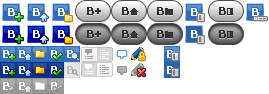
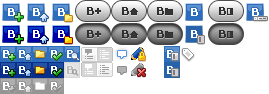
タグアイコンを設置

Changed region(s): [[0.6543, 0.5106, 0.7435, 0.6596], [0.7138, 0.1277, 0.7732, 0.2553]]

diff --git a/chrome/skin/classic/toolbar.css b/chrome/skin/classic/toolbar.css
@@ -118,7 +118,8 @@ toolbar[iconsize="small"] #hBookmark-toolbar-recent-button:active {
 
 .hBookmark-tag-filter-button {
   /* XXX 適切なアイコンをあてる */
-  list-style-image: url("chrome://hatenabookmark/skin/images/b.gif");
+  list-style-image: url("chrome://hatenabookmark/skin/images/buttons.png");
+  -moz-image-region: rect(46px 196px 62px 180px);
 }
 
 .hBookmark-tag-filter-button > .toolbarbutton-icon {
